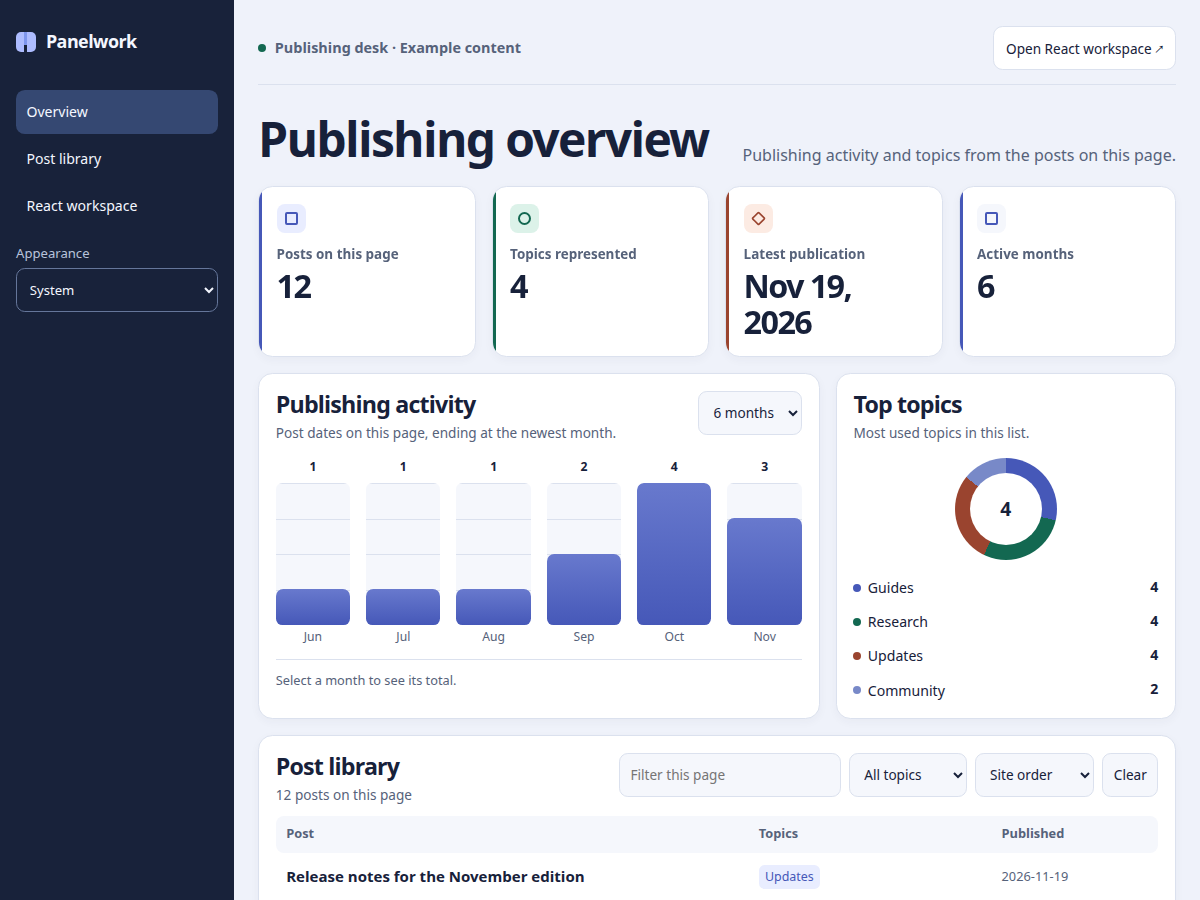
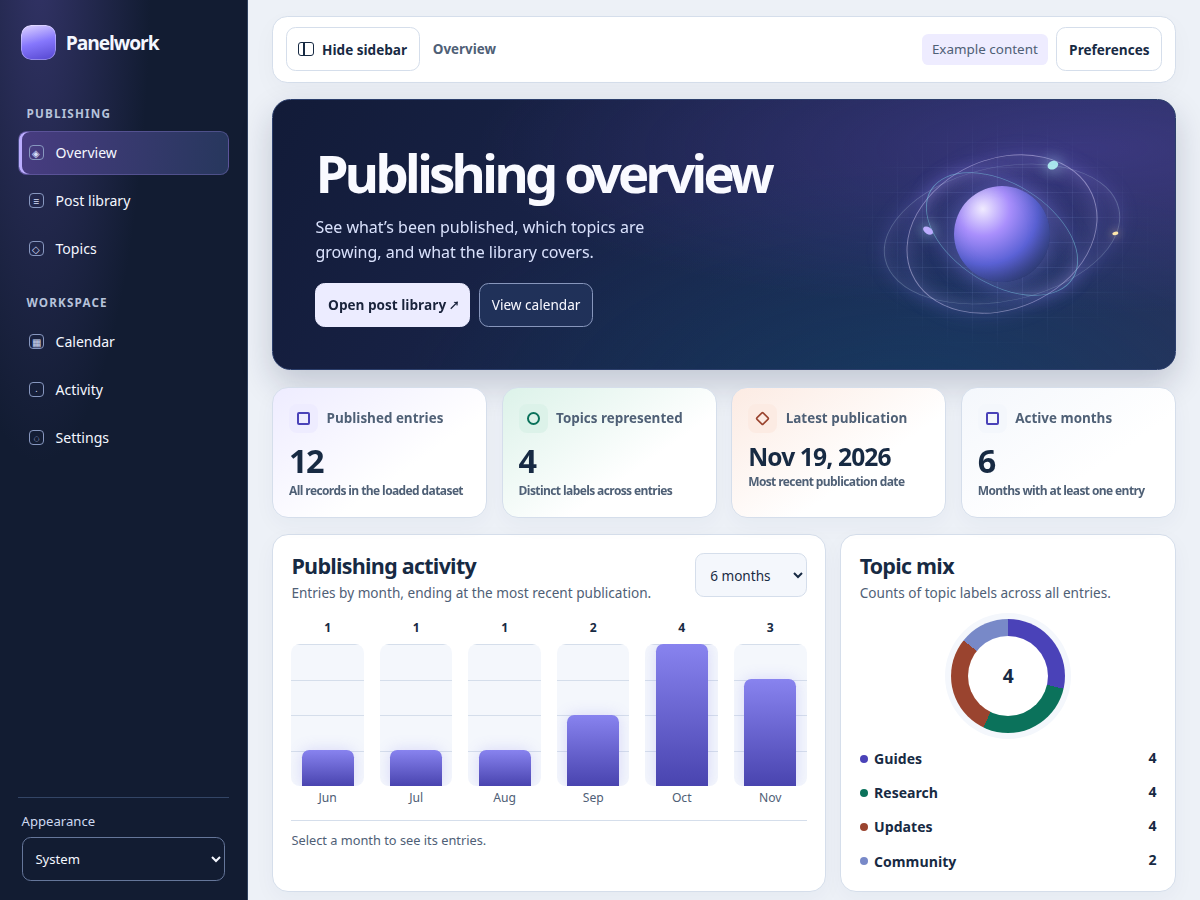
Feature the redesigned Panelwork React preview

diff --git a/index.html b/index.html
@@ -1,1 +1,1 @@
-<!doctype html><html lang="en"><head><meta charset="utf-8"/><meta name="viewport" content="width=device-width,initial-scale=1"/><title>Gonk Themes — Free themes for crypto communities</title><meta name="description" content="Original free Blogger and WordPress themes for crypto communities. Browse live previews, download installable themes and explore the open source."/><link rel="canonical" href="https://gonkfun.github.io/"/><link rel="icon" type="image/svg+xml" href="assets/favicon.svg"/><style>*{box-sizing:border-box}body{margin:0;background:#101216;color:#f2f4f8;font:16px/1.7 system-ui,-apple-system,sans-serif}a{color:inherit;text-underline-offset:5px}a:focus-visible{outline:3px solid #8fbaff;outline-offset:5px}.wrap{max-width:1180px;width:calc(100% - 48px);margin:auto}header{border-bottom:1px solid #39414f}header .wrap{display:flex;justify-content:space-between;align-items:center;min-height:90px;gap:24px}header a{text-decoration:none;min-height:44px;display:inline-flex;align-items:center}.brand{font-size:23px;font-weight:700;letter-spacing:-.8px}.brand span{color:#8fbaff}nav{display:flex;gap:25px;font-size:14px}.hero{padding:80px 0 55px;max-width:850px}.eyebrow{font:11px/1.5 ui-monospace,monospace;letter-spacing:1.5px;color:#aab3c2;text-transform:uppercase}h1{font-size:clamp(42px,6vw,76px);font-weight:600;line-height:1.08;letter-spacing:-3px;margin:20px 0 26px}h1 span{color:#8fbaff}.hero p{font-size:18px;color:#aab3c2;max-width:620px}.grid{display:grid;grid-template-columns:minmax(0,1fr);gap:32px}.card{border:1px solid #39414f;background:#191c22;border-radius:18px;overflow:hidden;display:grid;grid-template-columns:1.1fr 1fr;min-width:0}.cover{display:block;background:#222731;overflow:hidden}.cover img{display:block;width:100%;height:100%;object-fit:cover;object-position:top}.card-body{padding:34px}h2{font-size:35px;font-weight:600;letter-spacing:-1px;margin:14px 0 10px}.card p{font-size:15px;color:#aab3c2}.tags{display:flex;flex-wrap:wrap;gap:10px;margin:22px 0}.tags span{padding:6px 12px;border:1px solid #39414f;border-radius:999px;font-size:12px}.actions{display:flex;gap:10px;flex-wrap:wrap}.actions a{min-height:44px;display:inline-flex;align-items:center;padding:10px 16px;text-decoration:none;font-size:13px;border:1px solid #46546b;border-radius:999px}.actions .primary{background:#8fbaff;color:#101b30;border-color:#8fbaff;font-weight:650}.source{display:inline-flex;align-items:center;min-height:44px;font-size:13px;margin-top:16px;color:#bfd4f9}.note{padding:26px 0;color:#aab3c2;font-size:14px;max-width:900px}footer{border-top:1px solid #39414f;margin-top:50px;padding:28px 0 40px;font-size:13px;color:#aab3c2}footer .wrap{display:flex;justify-content:space-between;gap:25px;flex-wrap:wrap}footer a{color:#8fbaff}.skip{position:absolute;top:-100px;left:20px}.skip:focus{top:15px;background:#8fbaff;color:#101216;padding:12px;z-index:5}@media(max-width:750px){.wrap{width:calc(100% - 32px)}header .wrap{min-height:80px}.brand{font-size:20px}nav{gap:16px;font-size:12px}.hero{padding:46px 0 32px}h1{letter-spacing:-1.8px}.card{grid-template-columns:1fr}.cover{aspect-ratio:16/10}.card-body{padding:25px}.hero p{font-size:16px}}</style></head><body><a class="skip" href="#themes">Skip to themes</a><header><div class="wrap"><a class="brand" href="./">gonk<span> / themes</span></a><nav aria-label="Main"><a href="https://github.com/gonkfun/themes">GitHub ↗</a><a href="https://gonk.fun/">gonk.fun ↗</a></nav></div></header><main class="wrap"><section class="hero"><div class="eyebrow">Original design. Open source.</div><h1>A home for your<br/><span>corner of crypto.</span></h1><p>Free themes for the people writing, building and bringing communities together. Start with one you like. Make it your own.</p></section><section class="grid" id="themes" aria-label="Available themes"><article class="card"><a class="cover" href="/themes/epoch/" aria-label="Preview Epoch"><img src="assets/epoch.png" width="1200" height="900" alt="Epoch theme homepage"/></a><div class="card-body"><div class="eyebrow">THEME 01 / Solana editorial</div><h2>Epoch</h2><p>A charcoal-and-blue journal for Solana communities, with native publishing, responsive reading layouts and original artwork.</p><div class="tags"><span>Blogger</span><span>WordPress</span></div><div class="actions"><a class="primary" href="/themes/epoch/">Live preview ↗</a><a href="https://github.com/gonkfun/themes/releases/download/epoch-v1.0.0/epoch-blogger-1.0.0.zip">Blogger ZIP ↓</a><a href="https://github.com/gonkfun/themes/releases/download/epoch-v1.0.0/epoch-wordpress-1.0.0.zip">WordPress ZIP ↓</a></div><a class="source" href="https://github.com/gonkfun/themes/tree/main/themes/epoch">Source &amp; installation guides ↗</a></div></article><article class="card"><a class="cover" href="/themes/fieldnote/" aria-label="Preview Fieldnote"><img src="assets/fieldnote.png" width="1200" height="900" alt="Fieldnote theme homepage"/></a><div class="card-body"><div class="eyebrow">THEME 02 / Nature journal</div><h2>Fieldnote</h2><p>A paper-and-ink field journal for naturalists, gardeners and walkers: specimen-card entries, margin notes, a season strip and hand-drawn line artwork. Designed by Claude.</p><div class="tags"><span>Blogger</span><span>WordPress</span></div><div class="actions"><a class="primary" href="/themes/fieldnote/">Live preview ↗</a><a href="https://github.com/gonkfun/themes/releases/download/fieldnote-v1.0.0/fieldnote-blogger-1.0.0.zip">Blogger ZIP ↓</a><a href="https://github.com/gonkfun/themes/releases/download/fieldnote-v1.0.0/fieldnote-wordpress-1.0.0.zip">WordPress ZIP ↓</a></div><a class="source" href="https://github.com/gonkfun/themes/tree/main/themes/fieldnote">Source &amp; installation guides ↗</a></div></article><article class="card"><a class="cover" href="/themes/relaygrid/" aria-label="Preview Relaygrid"><img src="assets/relaygrid.png" width="1200" height="900" alt="Relaygrid theme homepage"/></a><div class="card-body"><div class="eyebrow">THEME 03 / Developer project</div><h2>Relaygrid</h2><p>A lightweight project homepage with technical updates, a roadmap and a compact documentation layout.</p><div class="tags"><span>Blogger</span><span>WordPress</span></div><div class="actions"><a class="primary" href="/themes/relaygrid/">Live preview ↗</a><a href="https://github.com/gonkfun/themes/releases/download/relaygrid-v1.0.0/relaygrid-blogger-1.0.0.zip">Blogger ZIP ↓</a><a href="https://github.com/gonkfun/themes/releases/download/relaygrid-v1.0.0/relaygrid-wordpress-1.0.0.zip">WordPress ZIP ↓</a></div><a class="source" href="https://github.com/gonkfun/themes/tree/main/themes/relaygrid">Source &amp; installation guides ↗</a></div></article><article class="card"><a class="cover" href="/themes/cabinetnoir/" aria-label="Preview Cabinet Noir"><img src="assets/cabinetnoir.png" width="1200" height="900" alt="Cabinet Noir theme homepage"/></a><div class="card-body"><div class="eyebrow">THEME 04 / Collectible catalogue</div><h2>Cabinet Noir</h2><p>A museum-style gallery with an oversized exhibit lead, a specimen grid and dedicated collection notes.</p><div class="tags"><span>Blogger</span><span>WordPress</span></div><div class="actions"><a class="primary" href="/themes/cabinetnoir/">Live preview ↗</a><a href="https://github.com/gonkfun/themes/releases/download/cabinetnoir-v1.0.0/cabinetnoir-blogger-1.0.0.zip">Blogger ZIP ↓</a><a href="https://github.com/gonkfun/themes/releases/download/cabinetnoir-v1.0.0/cabinetnoir-wordpress-1.0.0.zip">WordPress ZIP ↓</a></div><a class="source" href="https://github.com/gonkfun/themes/tree/main/themes/cabinetnoir">Source &amp; installation guides ↗</a></div></article><article class="card"><a class="cover" href="/themes/signalatelier/" aria-label="Preview Signal Atelier"><img src="assets/signalatelier.png" width="1200" height="900" alt="Signal Atelier theme homepage"/></a><div class="card-body"><div class="eyebrow">THEME 05 / Creative studio</div><h2>Signal Atelier</h2><p>A bold studio portfolio with an oversized opening, a structured service list and case-study templates.</p><div class="tags"><span>Blogger</span><span>WordPress</span></div><div class="actions"><a class="primary" href="/themes/signalatelier/">Live preview ↗</a><a href="https://github.com/gonkfun/themes/releases/download/signalatelier-v1.0.0/signalatelier-blogger-1.0.0.zip">Blogger ZIP ↓</a><a href="https://github.com/gonkfun/themes/releases/download/signalatelier-v1.0.0/signalatelier-wordpress-1.0.0.zip">WordPress ZIP ↓</a></div><a class="source" href="https://github.com/gonkfun/themes/tree/main/themes/signalatelier">Source &amp; installation guides ↗</a></div></article><article class="card"><a class="cover" href="/themes/longweekend/" aria-label="Preview Long Weekend"><img src="assets/longweekend.png" width="1200" height="900" alt="Long Weekend theme homepage"/></a><div class="card-body"><div class="eyebrow">THEME 06 / Community events</div><h2>Long Weekend</h2><p>A lively event theme with a poster-style entrance, an editable agenda and room for speaker or venue updates.</p><div class="tags"><span>Blogger</span><span>WordPress</span></div><div class="actions"><a class="primary" href="/themes/longweekend/">Live preview ↗</a><a href="https://github.com/gonkfun/themes/releases/download/longweekend-v1.0.0/longweekend-blogger-1.0.0.zip">Blogger ZIP ↓</a><a href="https://github.com/gonkfun/themes/releases/download/longweekend-v1.0.0/longweekend-wordpress-1.0.0.zip">WordPress ZIP ↓</a></div><a class="source" href="https://github.com/gonkfun/themes/tree/main/themes/longweekend">Source &amp; installation guides ↗</a></div></article><article class="card"><a class="cover" href="/themes/lumen/" aria-label="Preview Lumen"><img src="assets/lumen.png" width="1200" height="900" alt="Lumen theme homepage"/></a><div class="card-body"><div class="eyebrow">THEME 07 / Literary journal</div><h2>Lumen</h2><p>A literary journal with a left navigation sidebar, a focused reading pane and a system-aware light or dark appearance.</p><div class="tags"><span>Blogger</span><span>WordPress</span></div><div class="actions"><a class="primary" href="/themes/lumen/">Live preview ↗</a><a href="https://github.com/gonkfun/themes/releases/download/lumen-v1.1.0/lumen-blogger-1.1.0.zip">Blogger ZIP ↓</a><a href="https://github.com/gonkfun/themes/releases/download/lumen-v1.1.0/lumen-wordpress-1.1.0.zip">WordPress ZIP ↓</a></div><a class="source" href="https://github.com/gonkfun/themes/tree/main/themes/lumen">Source &amp; installation guides ↗</a></div></article><article class="card"><a class="cover" href="/themes/panelwork/" aria-label="Preview Panelwork"><img src="assets/panelwork.png" width="1200" height="900" alt="Panelwork theme homepage"/></a><div class="card-body"><div class="eyebrow">THEME 08 / Publishing dashboard</div><h2>Panelwork</h2><p>A publishing dashboard with interactive charts, a sortable library and a full React workspace with topics, calendar, activity and settings.</p><div class="tags"><span>Blogger</span><span>WordPress</span><span>React</span></div><div class="actions"><a class="primary" href="/themes/panelwork/">Live preview ↗</a><a href="https://github.com/gonkfun/themes/releases/download/panelwork-v1.1.0/panelwork-blogger-1.1.0.zip">Blogger ZIP ↓</a><a href="https://github.com/gonkfun/themes/releases/download/panelwork-v1.1.0/panelwork-wordpress-1.1.0.zip">WordPress ZIP ↓</a><a href="https://github.com/gonkfun/themes/releases/download/panelwork-v1.1.0/panelwork-react-1.1.0.zip">React ZIP ↓</a></div><a class="source" href="https://github.com/gonkfun/themes/tree/main/themes/panelwork">Source &amp; installation guides ↗</a></div></article></section><p class="note">Each card lists its available downloads. Blogger ZIPs include XML, WordPress ZIPs install as themes, and React ZIPs include the starter source. Previews use fictional sample content. WordPress needs hosting that supports custom themes; GitHub Pages hosts the static previews.</p></main><footer><div class="wrap"><span>GPL-2.0-or-later · Free to use and modify.</span><span>Powered by <a href="https://gonk.fun/" rel="nofollow">gonk.fun</a></span></div></footer></body></html>
+<!doctype html><html lang="en"><head><meta charset="utf-8"/><meta name="viewport" content="width=device-width,initial-scale=1"/><title>Gonk Themes — Free themes for crypto communities</title><meta name="description" content="Original free Blogger and WordPress themes for crypto communities. Browse live previews, download installable themes and explore the open source."/><link rel="canonical" href="https://gonkfun.github.io/"/><link rel="icon" type="image/svg+xml" href="assets/favicon.svg"/><style>*{box-sizing:border-box}body{margin:0;background:#101216;color:#f2f4f8;font:16px/1.7 system-ui,-apple-system,sans-serif}a{color:inherit;text-underline-offset:5px}a:focus-visible{outline:3px solid #8fbaff;outline-offset:5px}.wrap{max-width:1180px;width:calc(100% - 48px);margin:auto}header{border-bottom:1px solid #39414f}header .wrap{display:flex;justify-content:space-between;align-items:center;min-height:90px;gap:24px}header a{text-decoration:none;min-height:44px;display:inline-flex;align-items:center}.brand{font-size:23px;font-weight:700;letter-spacing:-.8px}.brand span{color:#8fbaff}nav{display:flex;gap:25px;font-size:14px}.hero{padding:80px 0 55px;max-width:850px}.eyebrow{font:11px/1.5 ui-monospace,monospace;letter-spacing:1.5px;color:#aab3c2;text-transform:uppercase}h1{font-size:clamp(42px,6vw,76px);font-weight:600;line-height:1.08;letter-spacing:-3px;margin:20px 0 26px}h1 span{color:#8fbaff}.hero p{font-size:18px;color:#aab3c2;max-width:620px}.grid{display:grid;grid-template-columns:minmax(0,1fr);gap:32px}.card{border:1px solid #39414f;background:#191c22;border-radius:18px;overflow:hidden;display:grid;grid-template-columns:1.1fr 1fr;min-width:0}.cover{display:block;background:#222731;overflow:hidden}.cover img{display:block;width:100%;height:100%;object-fit:cover;object-position:top}.card-body{padding:34px}h2{font-size:35px;font-weight:600;letter-spacing:-1px;margin:14px 0 10px}.card p{font-size:15px;color:#aab3c2}.tags{display:flex;flex-wrap:wrap;gap:10px;margin:22px 0}.tags span{padding:6px 12px;border:1px solid #39414f;border-radius:999px;font-size:12px}.actions{display:flex;gap:10px;flex-wrap:wrap}.actions a{min-height:44px;display:inline-flex;align-items:center;padding:10px 16px;text-decoration:none;font-size:13px;border:1px solid #46546b;border-radius:999px}.actions .primary{background:#8fbaff;color:#101b30;border-color:#8fbaff;font-weight:650}.source{display:inline-flex;align-items:center;min-height:44px;font-size:13px;margin-top:16px;color:#bfd4f9}.note{padding:26px 0;color:#aab3c2;font-size:14px;max-width:900px}footer{border-top:1px solid #39414f;margin-top:50px;padding:28px 0 40px;font-size:13px;color:#aab3c2}footer .wrap{display:flex;justify-content:space-between;gap:25px;flex-wrap:wrap}footer a{color:#8fbaff}.skip{position:absolute;top:-100px;left:20px}.skip:focus{top:15px;background:#8fbaff;color:#101216;padding:12px;z-index:5}@media(max-width:750px){.wrap{width:calc(100% - 32px)}header .wrap{min-height:80px}.brand{font-size:20px}nav{gap:16px;font-size:12px}.hero{padding:46px 0 32px}h1{letter-spacing:-1.8px}.card{grid-template-columns:1fr}.cover{aspect-ratio:16/10}.card-body{padding:25px}.hero p{font-size:16px}}</style></head><body><a class="skip" href="#themes">Skip to themes</a><header><div class="wrap"><a class="brand" href="./">gonk<span> / themes</span></a><nav aria-label="Main"><a href="https://github.com/gonkfun/themes">GitHub ↗</a><a href="https://gonk.fun/">gonk.fun ↗</a></nav></div></header><main class="wrap"><section class="hero"><div class="eyebrow">Original design. Open source.</div><h1>A home for your<br/><span>corner of crypto.</span></h1><p>Free themes for the people writing, building and bringing communities together. Start with one you like. Make it your own.</p></section><section class="grid" id="themes" aria-label="Available themes"><article class="card"><a class="cover" href="/themes/epoch/" aria-label="Preview Epoch"><img src="assets/epoch.png" width="1200" height="900" alt="Epoch theme homepage"/></a><div class="card-body"><div class="eyebrow">THEME 01 / Solana editorial</div><h2>Epoch</h2><p>A charcoal-and-blue journal for Solana communities, with native publishing, responsive reading layouts and original artwork.</p><div class="tags"><span>Blogger</span><span>WordPress</span></div><div class="actions"><a class="primary" href="/themes/epoch/">Live preview ↗</a><a href="https://github.com/gonkfun/themes/releases/download/epoch-v1.0.0/epoch-blogger-1.0.0.zip">Blogger ZIP ↓</a><a href="https://github.com/gonkfun/themes/releases/download/epoch-v1.0.0/epoch-wordpress-1.0.0.zip">WordPress ZIP ↓</a></div><a class="source" href="https://github.com/gonkfun/themes/tree/main/themes/epoch">Source &amp; installation guides ↗</a></div></article><article class="card"><a class="cover" href="/themes/fieldnote/" aria-label="Preview Fieldnote"><img src="assets/fieldnote.png" width="1200" height="900" alt="Fieldnote theme homepage"/></a><div class="card-body"><div class="eyebrow">THEME 02 / Nature journal</div><h2>Fieldnote</h2><p>A paper-and-ink field journal for naturalists, gardeners and walkers: specimen-card entries, margin notes, a season strip and hand-drawn line artwork. Designed by Claude.</p><div class="tags"><span>Blogger</span><span>WordPress</span></div><div class="actions"><a class="primary" href="/themes/fieldnote/">Live preview ↗</a><a href="https://github.com/gonkfun/themes/releases/download/fieldnote-v1.0.0/fieldnote-blogger-1.0.0.zip">Blogger ZIP ↓</a><a href="https://github.com/gonkfun/themes/releases/download/fieldnote-v1.0.0/fieldnote-wordpress-1.0.0.zip">WordPress ZIP ↓</a></div><a class="source" href="https://github.com/gonkfun/themes/tree/main/themes/fieldnote">Source &amp; installation guides ↗</a></div></article><article class="card"><a class="cover" href="/themes/relaygrid/" aria-label="Preview Relaygrid"><img src="assets/relaygrid.png" width="1200" height="900" alt="Relaygrid theme homepage"/></a><div class="card-body"><div class="eyebrow">THEME 03 / Developer project</div><h2>Relaygrid</h2><p>A lightweight project homepage with technical updates, a roadmap and a compact documentation layout.</p><div class="tags"><span>Blogger</span><span>WordPress</span></div><div class="actions"><a class="primary" href="/themes/relaygrid/">Live preview ↗</a><a href="https://github.com/gonkfun/themes/releases/download/relaygrid-v1.0.0/relaygrid-blogger-1.0.0.zip">Blogger ZIP ↓</a><a href="https://github.com/gonkfun/themes/releases/download/relaygrid-v1.0.0/relaygrid-wordpress-1.0.0.zip">WordPress ZIP ↓</a></div><a class="source" href="https://github.com/gonkfun/themes/tree/main/themes/relaygrid">Source &amp; installation guides ↗</a></div></article><article class="card"><a class="cover" href="/themes/cabinetnoir/" aria-label="Preview Cabinet Noir"><img src="assets/cabinetnoir.png" width="1200" height="900" alt="Cabinet Noir theme homepage"/></a><div class="card-body"><div class="eyebrow">THEME 04 / Collectible catalogue</div><h2>Cabinet Noir</h2><p>A museum-style gallery with an oversized exhibit lead, a specimen grid and dedicated collection notes.</p><div class="tags"><span>Blogger</span><span>WordPress</span></div><div class="actions"><a class="primary" href="/themes/cabinetnoir/">Live preview ↗</a><a href="https://github.com/gonkfun/themes/releases/download/cabinetnoir-v1.0.0/cabinetnoir-blogger-1.0.0.zip">Blogger ZIP ↓</a><a href="https://github.com/gonkfun/themes/releases/download/cabinetnoir-v1.0.0/cabinetnoir-wordpress-1.0.0.zip">WordPress ZIP ↓</a></div><a class="source" href="https://github.com/gonkfun/themes/tree/main/themes/cabinetnoir">Source &amp; installation guides ↗</a></div></article><article class="card"><a class="cover" href="/themes/signalatelier/" aria-label="Preview Signal Atelier"><img src="assets/signalatelier.png" width="1200" height="900" alt="Signal Atelier theme homepage"/></a><div class="card-body"><div class="eyebrow">THEME 05 / Creative studio</div><h2>Signal Atelier</h2><p>A bold studio portfolio with an oversized opening, a structured service list and case-study templates.</p><div class="tags"><span>Blogger</span><span>WordPress</span></div><div class="actions"><a class="primary" href="/themes/signalatelier/">Live preview ↗</a><a href="https://github.com/gonkfun/themes/releases/download/signalatelier-v1.0.0/signalatelier-blogger-1.0.0.zip">Blogger ZIP ↓</a><a href="https://github.com/gonkfun/themes/releases/download/signalatelier-v1.0.0/signalatelier-wordpress-1.0.0.zip">WordPress ZIP ↓</a></div><a class="source" href="https://github.com/gonkfun/themes/tree/main/themes/signalatelier">Source &amp; installation guides ↗</a></div></article><article class="card"><a class="cover" href="/themes/longweekend/" aria-label="Preview Long Weekend"><img src="assets/longweekend.png" width="1200" height="900" alt="Long Weekend theme homepage"/></a><div class="card-body"><div class="eyebrow">THEME 06 / Community events</div><h2>Long Weekend</h2><p>A lively event theme with a poster-style entrance, an editable agenda and room for speaker or venue updates.</p><div class="tags"><span>Blogger</span><span>WordPress</span></div><div class="actions"><a class="primary" href="/themes/longweekend/">Live preview ↗</a><a href="https://github.com/gonkfun/themes/releases/download/longweekend-v1.0.0/longweekend-blogger-1.0.0.zip">Blogger ZIP ↓</a><a href="https://github.com/gonkfun/themes/releases/download/longweekend-v1.0.0/longweekend-wordpress-1.0.0.zip">WordPress ZIP ↓</a></div><a class="source" href="https://github.com/gonkfun/themes/tree/main/themes/longweekend">Source &amp; installation guides ↗</a></div></article><article class="card"><a class="cover" href="/themes/lumen/" aria-label="Preview Lumen"><img src="assets/lumen.png" width="1200" height="900" alt="Lumen theme homepage"/></a><div class="card-body"><div class="eyebrow">THEME 07 / Literary journal</div><h2>Lumen</h2><p>A literary journal with a left navigation sidebar, a focused reading pane and a system-aware light or dark appearance.</p><div class="tags"><span>Blogger</span><span>WordPress</span></div><div class="actions"><a class="primary" href="/themes/lumen/">Live preview ↗</a><a href="https://github.com/gonkfun/themes/releases/download/lumen-v1.1.0/lumen-blogger-1.1.0.zip">Blogger ZIP ↓</a><a href="https://github.com/gonkfun/themes/releases/download/lumen-v1.1.0/lumen-wordpress-1.1.0.zip">WordPress ZIP ↓</a></div><a class="source" href="https://github.com/gonkfun/themes/tree/main/themes/lumen">Source &amp; installation guides ↗</a></div></article><article class="card"><a class="cover" href="/themes/panelwork/react/" aria-label="Preview Panelwork"><img src="assets/panelwork.png" width="1200" height="900" alt="Panelwork theme homepage"/></a><div class="card-body"><div class="eyebrow">THEME 08 / Publishing dashboard</div><h2>Panelwork</h2><p>A detailed React publishing workspace with a hideable sidebar, charts, calendar and sortable library. Also available for Blogger and WordPress.</p><div class="tags"><span>Blogger</span><span>WordPress</span><span>React</span></div><div class="actions"><a class="primary" href="/themes/panelwork/react/">Live preview ↗</a><a href="https://github.com/gonkfun/themes/releases/download/panelwork-v1.1.0/panelwork-blogger-1.1.0.zip">Blogger ZIP ↓</a><a href="https://github.com/gonkfun/themes/releases/download/panelwork-v1.1.0/panelwork-wordpress-1.1.0.zip">WordPress ZIP ↓</a><a href="https://github.com/gonkfun/themes/releases/download/panelwork-v1.2.0/panelwork-react-1.2.0.zip">React ZIP ↓</a></div><a class="source" href="https://github.com/gonkfun/themes/tree/main/themes/panelwork">Source &amp; installation guides ↗</a></div></article></section><p class="note">Each card lists its available downloads. Blogger ZIPs include XML, WordPress ZIPs install as themes, and React ZIPs include the starter source. Previews use fictional sample content. WordPress needs hosting that supports custom themes; GitHub Pages hosts the static previews.</p></main><footer><div class="wrap"><span>GPL-2.0-or-later · Free to use and modify.</span><span>Powered by <a href="https://gonk.fun/" rel="nofollow">gonk.fun</a></span></div></footer></body></html>
